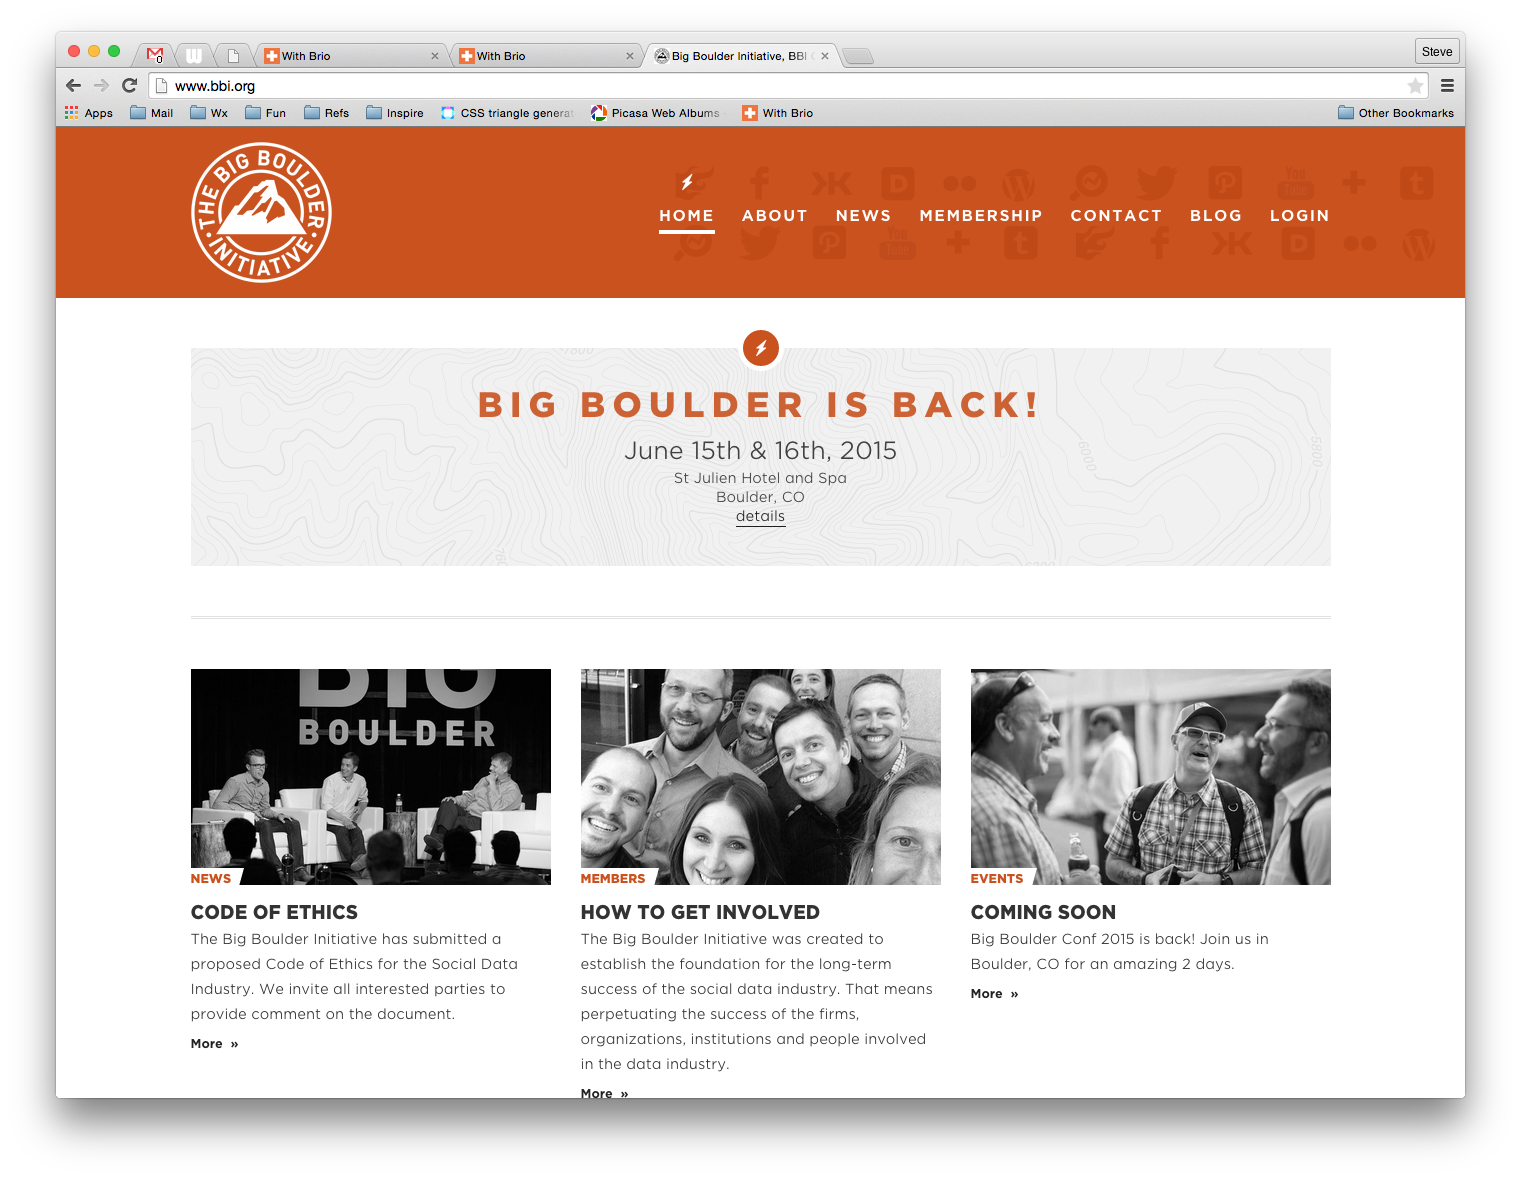
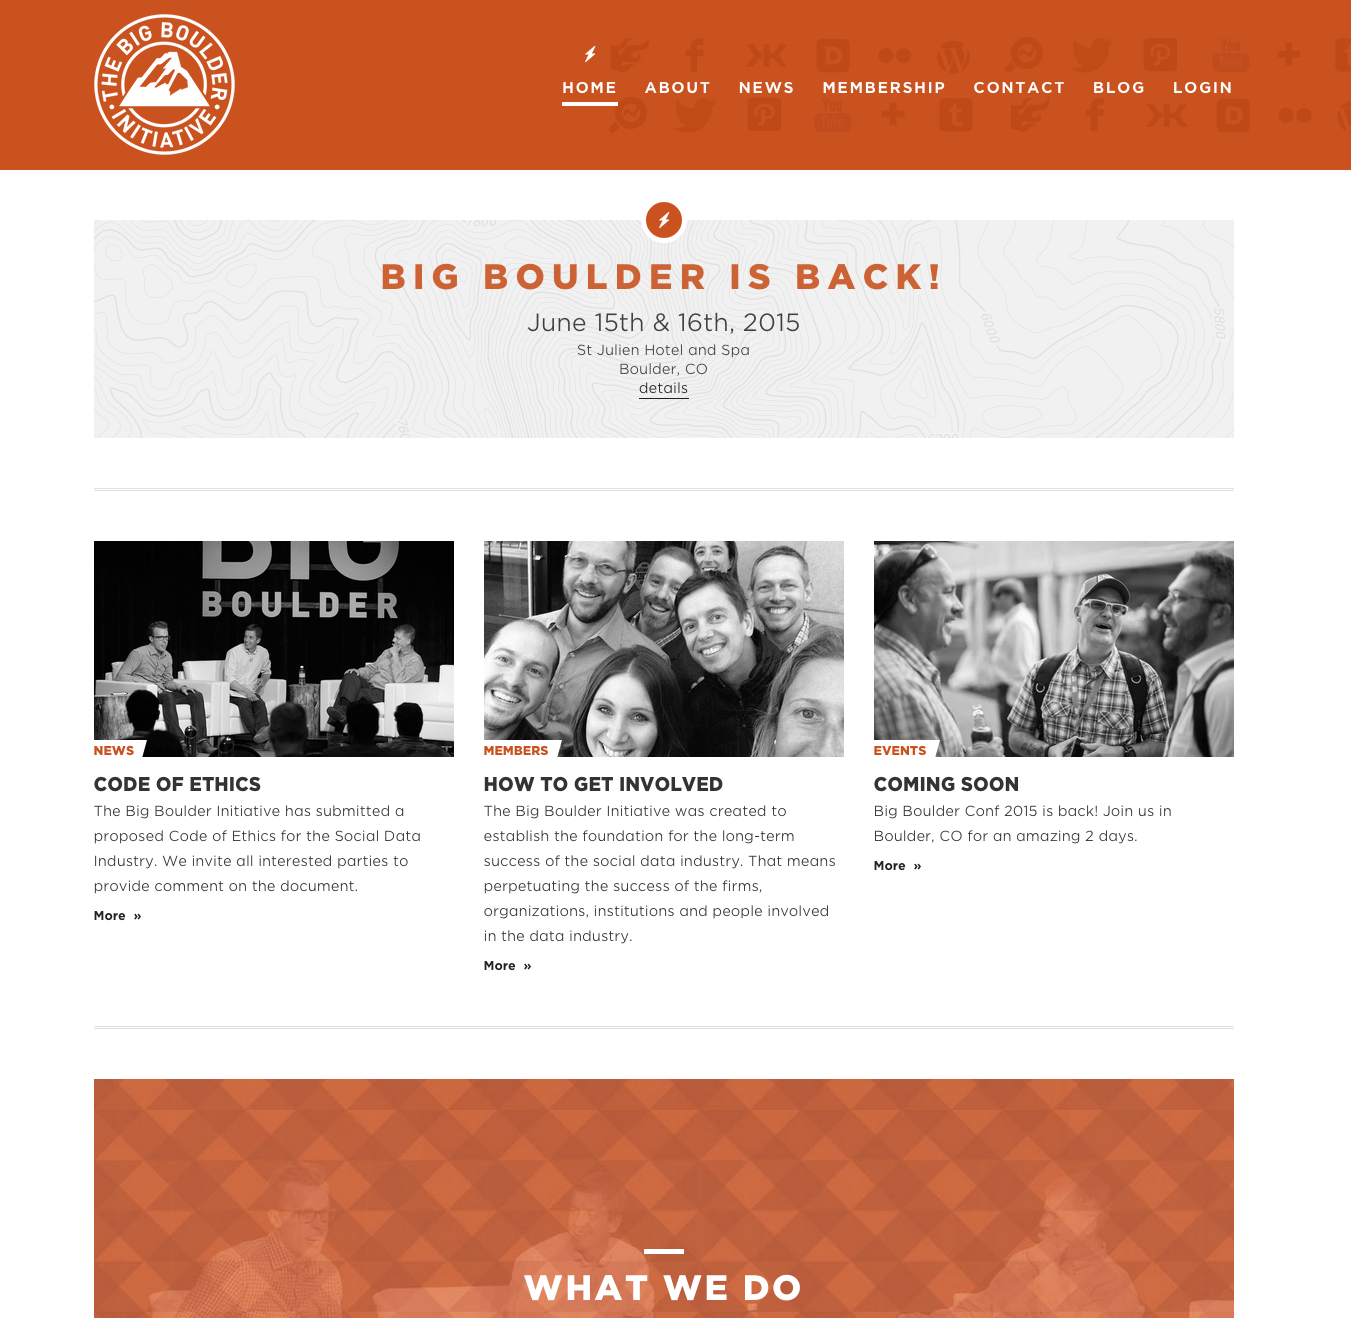
getting layout for work section dialed

diff --git a/source/stylesheets/styles.css.scss b/source/stylesheets/styles.css.scss
@@ -91,10 +91,18 @@ a {
 
 @media screen and (min-width: 768px) {
 
+  .showcase {
+    margin: 0 -30px;
+  }
+
   .table-row {
     display: table;
     table-layout: fixed;
     width: 100%;
+    .showcase & {
+      border-collapse: separate;
+      border-spacing: 30px 15px;
+    }
   }
 
   .table-row-brand {
@@ -107,6 +115,9 @@ a {
   .table-cell {
     display: table-cell;
     vertical-align: middle;
+    .showcase & {
+      vertical-align: top;
+    }
   }
 
   .table-cell-brand {
@@ -216,8 +227,11 @@ a {
 
 .page-section-work {
   padding: 250px 0 150px;
-  background: transparent image-url('strings.svg') no-repeat 50% 0;
-  background-size: 250px auto;
+  background-color: transparent;
+  background-image: image-url('strings.svg'), image-url('diamond-dust.png');
+  background-repeat: no-repeat, repeat-x;
+  background-position: 50% 0, 0 15px;
+  background-size: 250px auto, 300px auto;
   .container {
     position: relative;
   }
@@ -296,6 +310,12 @@ a {
   margin: 0 0 30px;
   font: 800 2.4rem/1.2 'Vitesse SSm A', 'Vitesse SSm B', serif;
   color: #222;
+}
+
+.showcase-row {
+  border-top: 1px solid #eee;
+  margin-top: 50px;
+  padding-top: 50px;
 }
 
 .faq-q {
